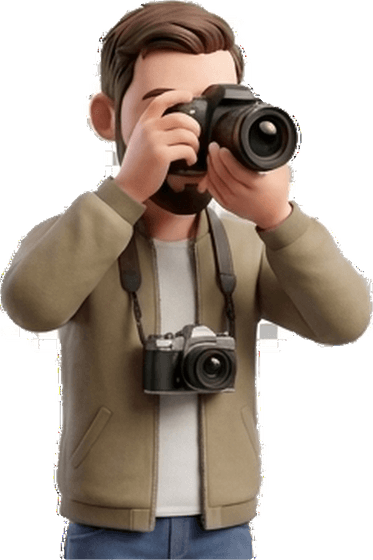
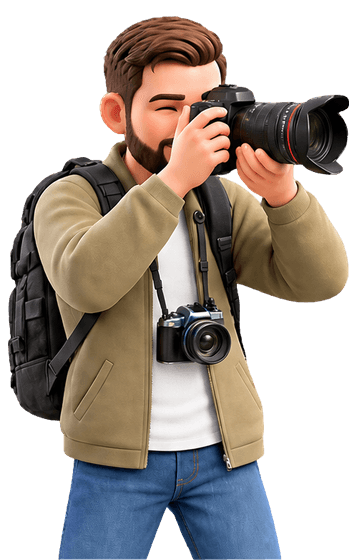
About: new hobby cut-outs (#40)
Seven new transparent hobby illustrations from the user's sheet (alpha verified; football and cooking now cut-outs instead of photos), with the seeder and image sizes updated. Approved by the user.

diff --git a/app/javascript/features/about/components/HobbyCard.tsx b/app/javascript/features/about/components/HobbyCard.tsx
@@ -25,13 +25,13 @@ const TINT_CLASS: Record<HobbyTint, string | undefined> = {
 };
 
 const IMAGE_SIZE_BY_FILE: Record<string, ImageSize> = {
-  "cooking.jpg": { height: 571, width: 640 },
-  "football.jpg": { height: 571, width: 640 },
-  "golf.png": { height: 560, width: 382 },
-  "photography.png": { height: 560, width: 373 },
-  "rugby.png": { height: 560, width: 312 },
-  "surfing.png": { height: 560, width: 458 },
-  "travelling.png": { height: 560, width: 305 },
+  "cooking.png": { height: 560, width: 592 },
+  "football.png": { height: 560, width: 521 },
+  "golf.png": { height: 560, width: 338 },
+  "photography.png": { height: 560, width: 357 },
+  "rugby.png": { height: 560, width: 310 },
+  "surfing.png": { height: 560, width: 400 },
+  "travelling.png": { height: 560, width: 384 },
 };
 
 const FALLBACK_IMAGE_SIZE: Record<HobbyImageFit, ImageSize> = {

diff --git a/app/javascript/features/about/components/HobbiesSection.test.tsx b/app/javascript/features/about/components/HobbiesSection.test.tsx
@@ -111,7 +111,13 @@ describe("HobbiesSection", () => {
   });
 
   it("covers the well with photos and bottom-aligns cut-outs", () => {
-    renderHobbies();
+    const hobbies = hobbiesFixture();
+    renderHobbies({
+      ...hobbies,
+      items: hobbies.items.map((hobby) =>
+        hobby.name === "Football" ? { ...hobby, photo: true } : hobby,
+      ),
+    });
 
     expect(hobbyWell("Football")).toHaveAttribute("data-fit", "cover");
     expect(hobbyWell("Rugby")).toHaveAttribute("data-fit", "contain");

diff --git a/lib/content/seeder.rb b/lib/content/seeder.rb
@@ -2,9 +2,7 @@ module Content
   class Seeder
     SOURCE_PATH = Rails.root.join("db/seeds/content.json")
     HOBBY_IMAGE_DIRECTORY = "/images/hobbies".freeze
-    PHOTO_HOBBIES = %w[Cooking Football].freeze
-    PHOTO_EXTENSION = "jpg".freeze
-    ILLUSTRATION_EXTENSION = "png".freeze
+    HOBBY_IMAGE_EXTENSION = "png".freeze
     PROFILE_FIELDS = {
       email: "email",
       footer_blurb: "footerBlurb",
@@ -103,9 +101,7 @@ module Content
     end
 
     def hobby_row(name:)
-      photo = PHOTO_HOBBIES.include?(name)
-      extension = photo ? PHOTO_EXTENSION : ILLUSTRATION_EXTENSION
-      { image_path: "#{HOBBY_IMAGE_DIRECTORY}/#{name.downcase}.#{extension}", name:, photo: }
+      { image_path: "#{HOBBY_IMAGE_DIRECTORY}/#{name.downcase}.#{HOBBY_IMAGE_EXTENSION}", name:, photo: false }
     end
 
     def upsert_section(model:, source:, fields:)

diff --git a/spec/lib/content/seeder_spec.rb b/spec/lib/content/seeder_spec.rb
@@ -117,13 +117,12 @@ RSpec.describe Content::Seeder do
         expect(ChatMessage.ordered.last.highlights).to eq(["Product Design & Manufacture Engineering"])
       end
 
-      it "points photo hobbies at jpg images" do
-        expect(Hobby.where(photo: true).pluck(:image_path))
-          .to contain_exactly("/images/hobbies/football.jpg", "/images/hobbies/cooking.jpg")
+      it "seeds every hobby as a cut-out" do
+        expect(Hobby.where(photo: true)).to be_empty
       end
 
-      it "points illustrated hobbies at png images" do
-        expect(Hobby.find_by!(name: "Rugby").image_path).to eq("/images/hobbies/rugby.png")
+      it "points hobbies at png cut-outs" do
+        expect(Hobby.find_by!(name: "Football").image_path).to eq("/images/hobbies/football.png")
       end
     end
 
